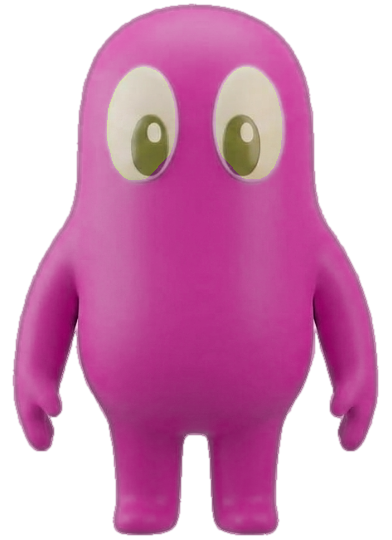
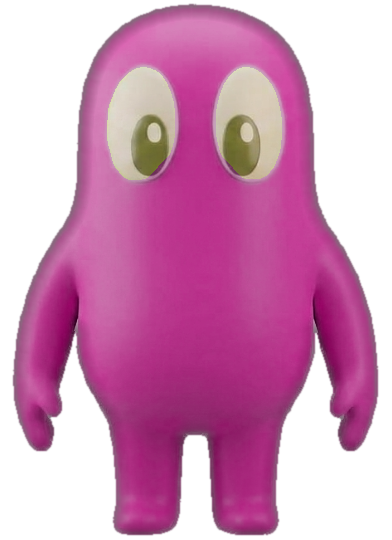
The pale outline was the render's own lighting, ten pixels in
Several attempts at this missed because they were looking in the wrong
place. The rim spike is real -- the outermost two pixels of the render
sit at luminance 229 against a body of 145 -- but flattening those did
not remove the halo, because the halo is not the spike. The body is
round and lit from the front, so its shading keeps climbing past the
body's own level and peaks about ten pixels inside the contour. That
band is what the eye reads as a white outline, and a correction that
covered the first seven pixels ran out before reaching it.

Scanning composited luminance inward from the edge is what found it:
13, 42, 89, 118, 130 ... 168 at ten pixels, then back to 163. The
correction now spans sixteen pixels and the same scan climbs to 154
without a peak.

Two other fixes on the way there, both measured rather than guessed.
Speculars inside the silhouette are compressed above the 97th
percentile of the body's own shading, which flattens the crease down
each armpit -- it is more than seven pixels from any edge, so nothing
edge-based could ever have reached it. And unfringe now takes the
eroded silhouette as its core rather than deriving one from the alpha:
the cut-out keeps anything darker than the backdrop, so a pixel four
fifths white still lands inside at full opacity, where a test on alpha
never looks at it.

Palette quantisation was tried and rejected: 73% smaller at a mean error
of 4/255, but the smooth shading banded visibly. The error metric said
[…]

diff --git a/tools/build-creature.py b/tools/build-creature.py
@@ -110,15 +110,23 @@ def alpha_from(solid: np.ndarray) -> np.ndarray:
     return ndimage.gaussian_filter(solid.astype(np.float32), 0.7)
 
 
-def unfringe(rgb: np.ndarray, alpha: np.ndarray) -> np.ndarray:
+def unfringe(rgb: np.ndarray, core: np.ndarray) -> np.ndarray:
     """
-    Push body colour outwards into the soft edge.
+    Push body colour outwards over the blended edge.
 
-    Anything not fully opaque is part backdrop, and keeping its colour is what
-    leaves a white halo around a character cut from a pale render. Each such
-    pixel takes the colour of the nearest solid one instead.
+    A character cut from a white render has a ring of pixels that are mostly
+    backdrop with a little body mixed in, and keeping their colour is what
+    leaves a pale halo round the silhouette. Each of them takes the colour of
+    the nearest pixel that is entirely body instead.
+
+    `core` is passed in rather than derived from the alpha, which is the bug
+    this signature exists to prevent. Deriving it as "alpha above 0.92" missed
+    the worst offenders: the cut-out keeps anything darker than the backdrop,
+    so a pixel that is four fifths white still lands inside the silhouette at
+    full opacity, and a test on alpha never looks at it. The core is the
+    silhouette eroded instead -- what is left after the blended ring is taken
+    off it.
     """
-    core = alpha > 0.92
     if not core.any():
         return rgb
     _, (iy, ix) = ndimage.distance_transform_edt(~core, return_indices=True)
@@ -127,25 +135,82 @@ def unfringe(rgb: np.ndarray, alpha: np.ndarray) -> np.ndarray:
 
 def tame_rim(rgb: np.ndarray, alpha: np.ndarray) -> np.ndarray:
     """
-    Pull down the render's rim light and leave a contour in its place.
+    Flatten the render's rim light and leave a contour in its place.
 
-    These renders are lit with a bright edge round the silhouette. Rotating its
-    hue keeps that brightness, so every colour comes out haloed just inside its
-    outline -- the thing that reads as a cheap cut-out. The band nearest the
-    edge has its highlights compressed towards the body's own mid-tone and then
-    darkens, so the character ends in a defined edge the way a drawn asset does.
+    These renders are lit with a bright edge round the silhouette, and rotating
+    the hue keeps that brightness, so every colour comes out haloed just inside
+    its outline -- the pale line that reads as a cheap cut-out.
+
+    The correction is narrow because the rim is: measured on the bare render,
+    the outermost two pixels sit at luminance 229 against a body of 145. But
+    the halo is wider than that spike: the body is round and lit from the
+    front, so its shading keeps climbing past the body's own level and peaks
+    about ten pixels in. Correcting only the first few pixels left that band
+    untouched, which is why the pale outline survived several attempts at it --
+    the fix was looking at the wrong place.
+
+    So instead of mixing those pixels towards the body, their brightness is
+    capped at it: whatever the rim was lit to, it may not end up brighter than
+    the surface behind it. Then the very edge darkens slightly, which gives the
+    character a drawn contour rather than a glow.
     """
     solid = alpha > 0.5
+    if not solid.any():
+        return rgb
+
     depth = ndimage.distance_transform_edt(solid)
-    band = 6.0
-    t = np.clip(depth / band, 0, 1)[..., None]
+    interior = solid & (depth > 8)
+    if not interior.any():
+        return rgb
 
-    deep = solid & (depth > band)
-    mid = np.median(rgb[deep], axis=0) if deep.any() else rgb.mean(axis=(0, 1))
+    lum = rgb.mean(axis=2)
+    cap = float(np.median(lum[interior]))
 
-    out = rgb * t + (rgb * 0.55 + mid * 0.45) * (1 - t)
-    out *= 0.80 + 0.20 * t
-    return np.clip(out, 0, 255)
+    # 1 at the outline, fading to 0 by BAND pixels in.
+    BAND = 16.0
+    strength = np.clip(1 - depth / BAND, 0, 1)
+
+    # How much each pixel would have to dim to sit at the body's own level.
+    needed = np.minimum(1.0, cap / np.maximum(lum, 1.0))
+    factor = 1 - strength * (1 - needed)
+
+    # And a touch darker right at the edge, so it reads as a contour.
+    factor *= 1 - 0.18 * strength
+
+    return np.clip(rgb * factor[..., None], 0, 255)
+
+
+def soften_speculars(
+    rgb: np.ndarray, skin: np.ndarray
+) -> np.ndarray:
+    """
+    Flatten the hot specular ridges the render leaves inside the silhouette.
+
+    tame_rim() only reaches the outline, and the worst highlight on this
+    character is nowhere near it: where the arm meets the body the two surfaces
+    are joined, so the crease down each armpit is more than seven pixels from
+    any edge and the rim correction never touched it. It came out as a white
+    line down both sides.
+
+    The body's own shading and the specular are separable by brightness. Across
+    the skin, the honest form shading reaches about the 97th percentile and
+    stops; the speculars sit well above it -- measured here, shading topped out
+    at 181 and the armpit ridge reached 231. So everything past that knee is
+    compressed towards it rather than clipped, which removes the ridge while
+    leaving the roundness that makes the character look lit at all.
+    """
+    if not skin.any():
+        return rgb
+
+    lum = rgb.mean(axis=2)
+    knee = float(np.percentile(lum[skin], 97))
+
+    over = np.maximum(lum - knee, 0)
+    target = knee + over * 0.25
+    factor = np.where(lum > knee, target / np.maximum(lum, 1.0), 1.0)
+    factor = np.where(skin, factor, 1.0)
+
+    return np.clip(rgb * factor[..., None], 0, 255)
 
 
 def hue_of(rgb: np.ndarray) -> np.ndarray:
@@ -251,7 +316,14 @@ def main() -> None:
 
     eyes = find_eyes(base_rgb, base_solid)
 
-    body = tame_rim(unfringe(base_rgb, base_alpha), base_alpha)
+    # The eyes keep their own brightness: they are meant to be the palest
+    # thing on the creature.
+    skin = base_solid & ~eyes
+    # Two pixels in from the outline: enough to clear the blend with the
+    # backdrop, little enough to keep the shading that describes the shape.
+    base_core = ndimage.binary_erosion(base_solid, iterations=2)
+    body = soften_speculars(unfringe(base_rgb, base_core), skin)
+    body = tame_rim(body, base_alpha)
 
 
     save(body, base_alpha, "creature-green.png")
@@ -279,7 +351,7 @@ def main() -> None:
         garment = ndimage.binary_opening(garment, iterations=2)
 
         g_alpha = alpha_from(garment)
-        g_rgb = unfringe(rgb, g_alpha)
+        g_rgb = unfringe(rgb, ndimage.binary_erosion(garment, iterations=2))
         save(g_rgb, g_alpha, f"layer-{name}.png")
         print(f"  outfit {name}: {int(garment.sum())}px")
 
